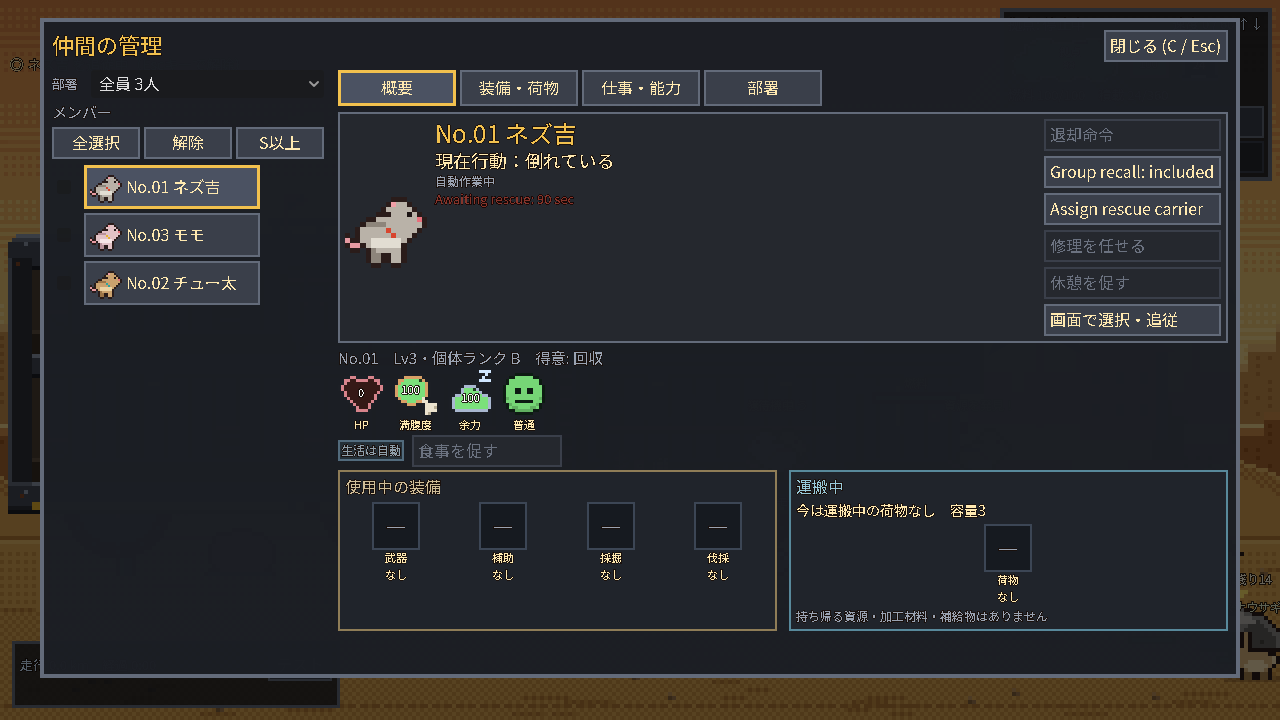
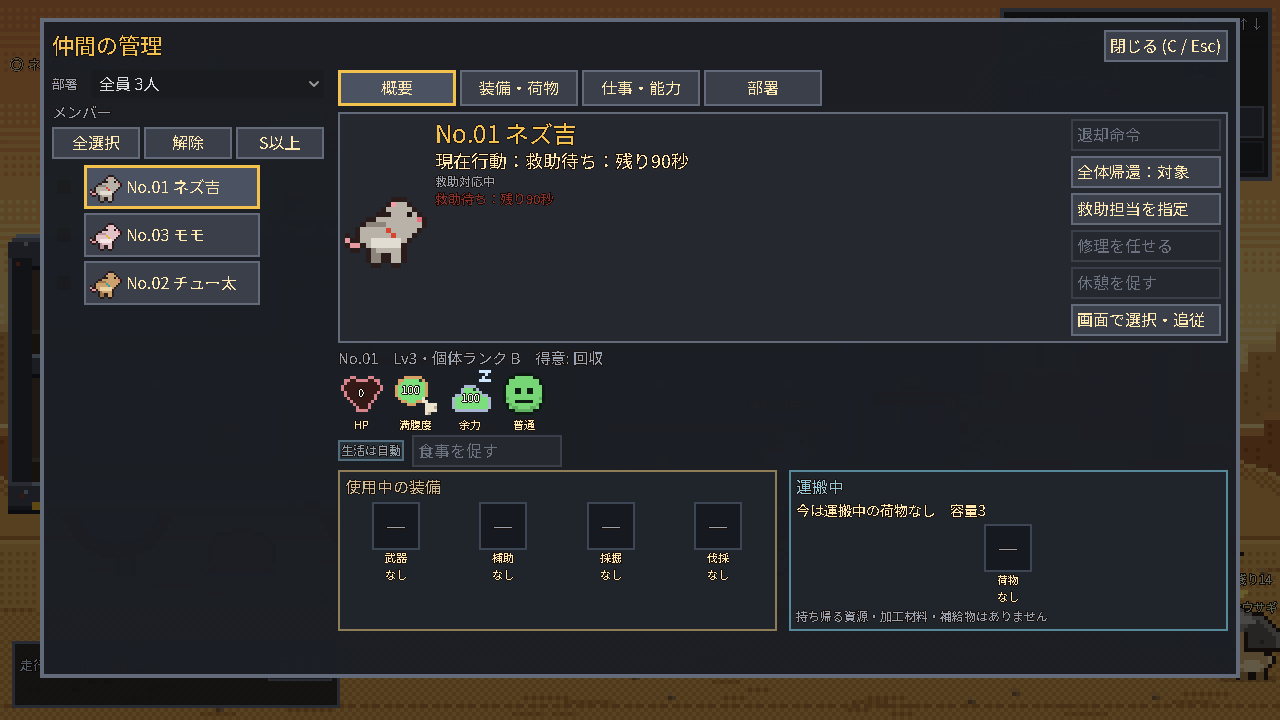
Localize rescue status UI

diff --git a/docs/rescue-return-work-log-2026-10-18.md b/docs/rescue-return-work-log-2026-10-18.md
@@ -14,3 +14,4 @@
 - Automatic HP30% withdrawal is scoped to an active rescue carrier, as required for rescue interruption; ordinary low-HP workers retain their established rest behavior. The rescue regression covers that automatic cancellation, while crew/life fixture resets now clear rescue-only AI fields between cases.
 - Verification before final core: Godot parser clean; `test_rescue_return.gd`, `test_crew_status.gd`, `test_save_game.gd`, `test_production_recovery.gd -- legacy-world-test`, `test_haul_support.gd -- legacy-world-test`, and `test_weapon.gd -- legacy-world-test` passed. Final core must be run from the final commit in isolated APPDATA/LOCALAPPDATA and must report `source_changed_during_run: false`.
 - Follow-up finalization (2026-10-18): HP at or below 30% now requests withdrawal for every outdoor worker (gathering, hunting, recovery, transfer, manual combat, and rescue); deck-side low-HP rest remains unchanged. Group recall has a per-worker persisted exclusion in crew details. Excluded workers retain their assigned task or explicit rescue carrier role, while their own return order and the HP30 outdoor safety rule still take priority. `test_rescue_return.gd` covers each distinction and is now included in the core suite; `test_crew_detail.gd` covers the visible control. Godot Viewport captures were recorded with the Windows 4.7.2 compatibility renderer at `C:\Users\user\AppData\Local\Temp\desert-rats-rescue-ui-evidence` (awaiting timer, carried rescue, explicit recovery resume, all-down checkpoint restart).
+- Final UI language pass (2026-10-18): localized the rescue status, assignment/recovery controls, group-recall control, and all-down checkpoint prompt. The worker action line now prioritizes rescue, transport, and recovery-wait states over ordinary automatic-work text. The targeted crew-detail/rescue regressions and four real-viewport captures are rerun after this display-only change.
